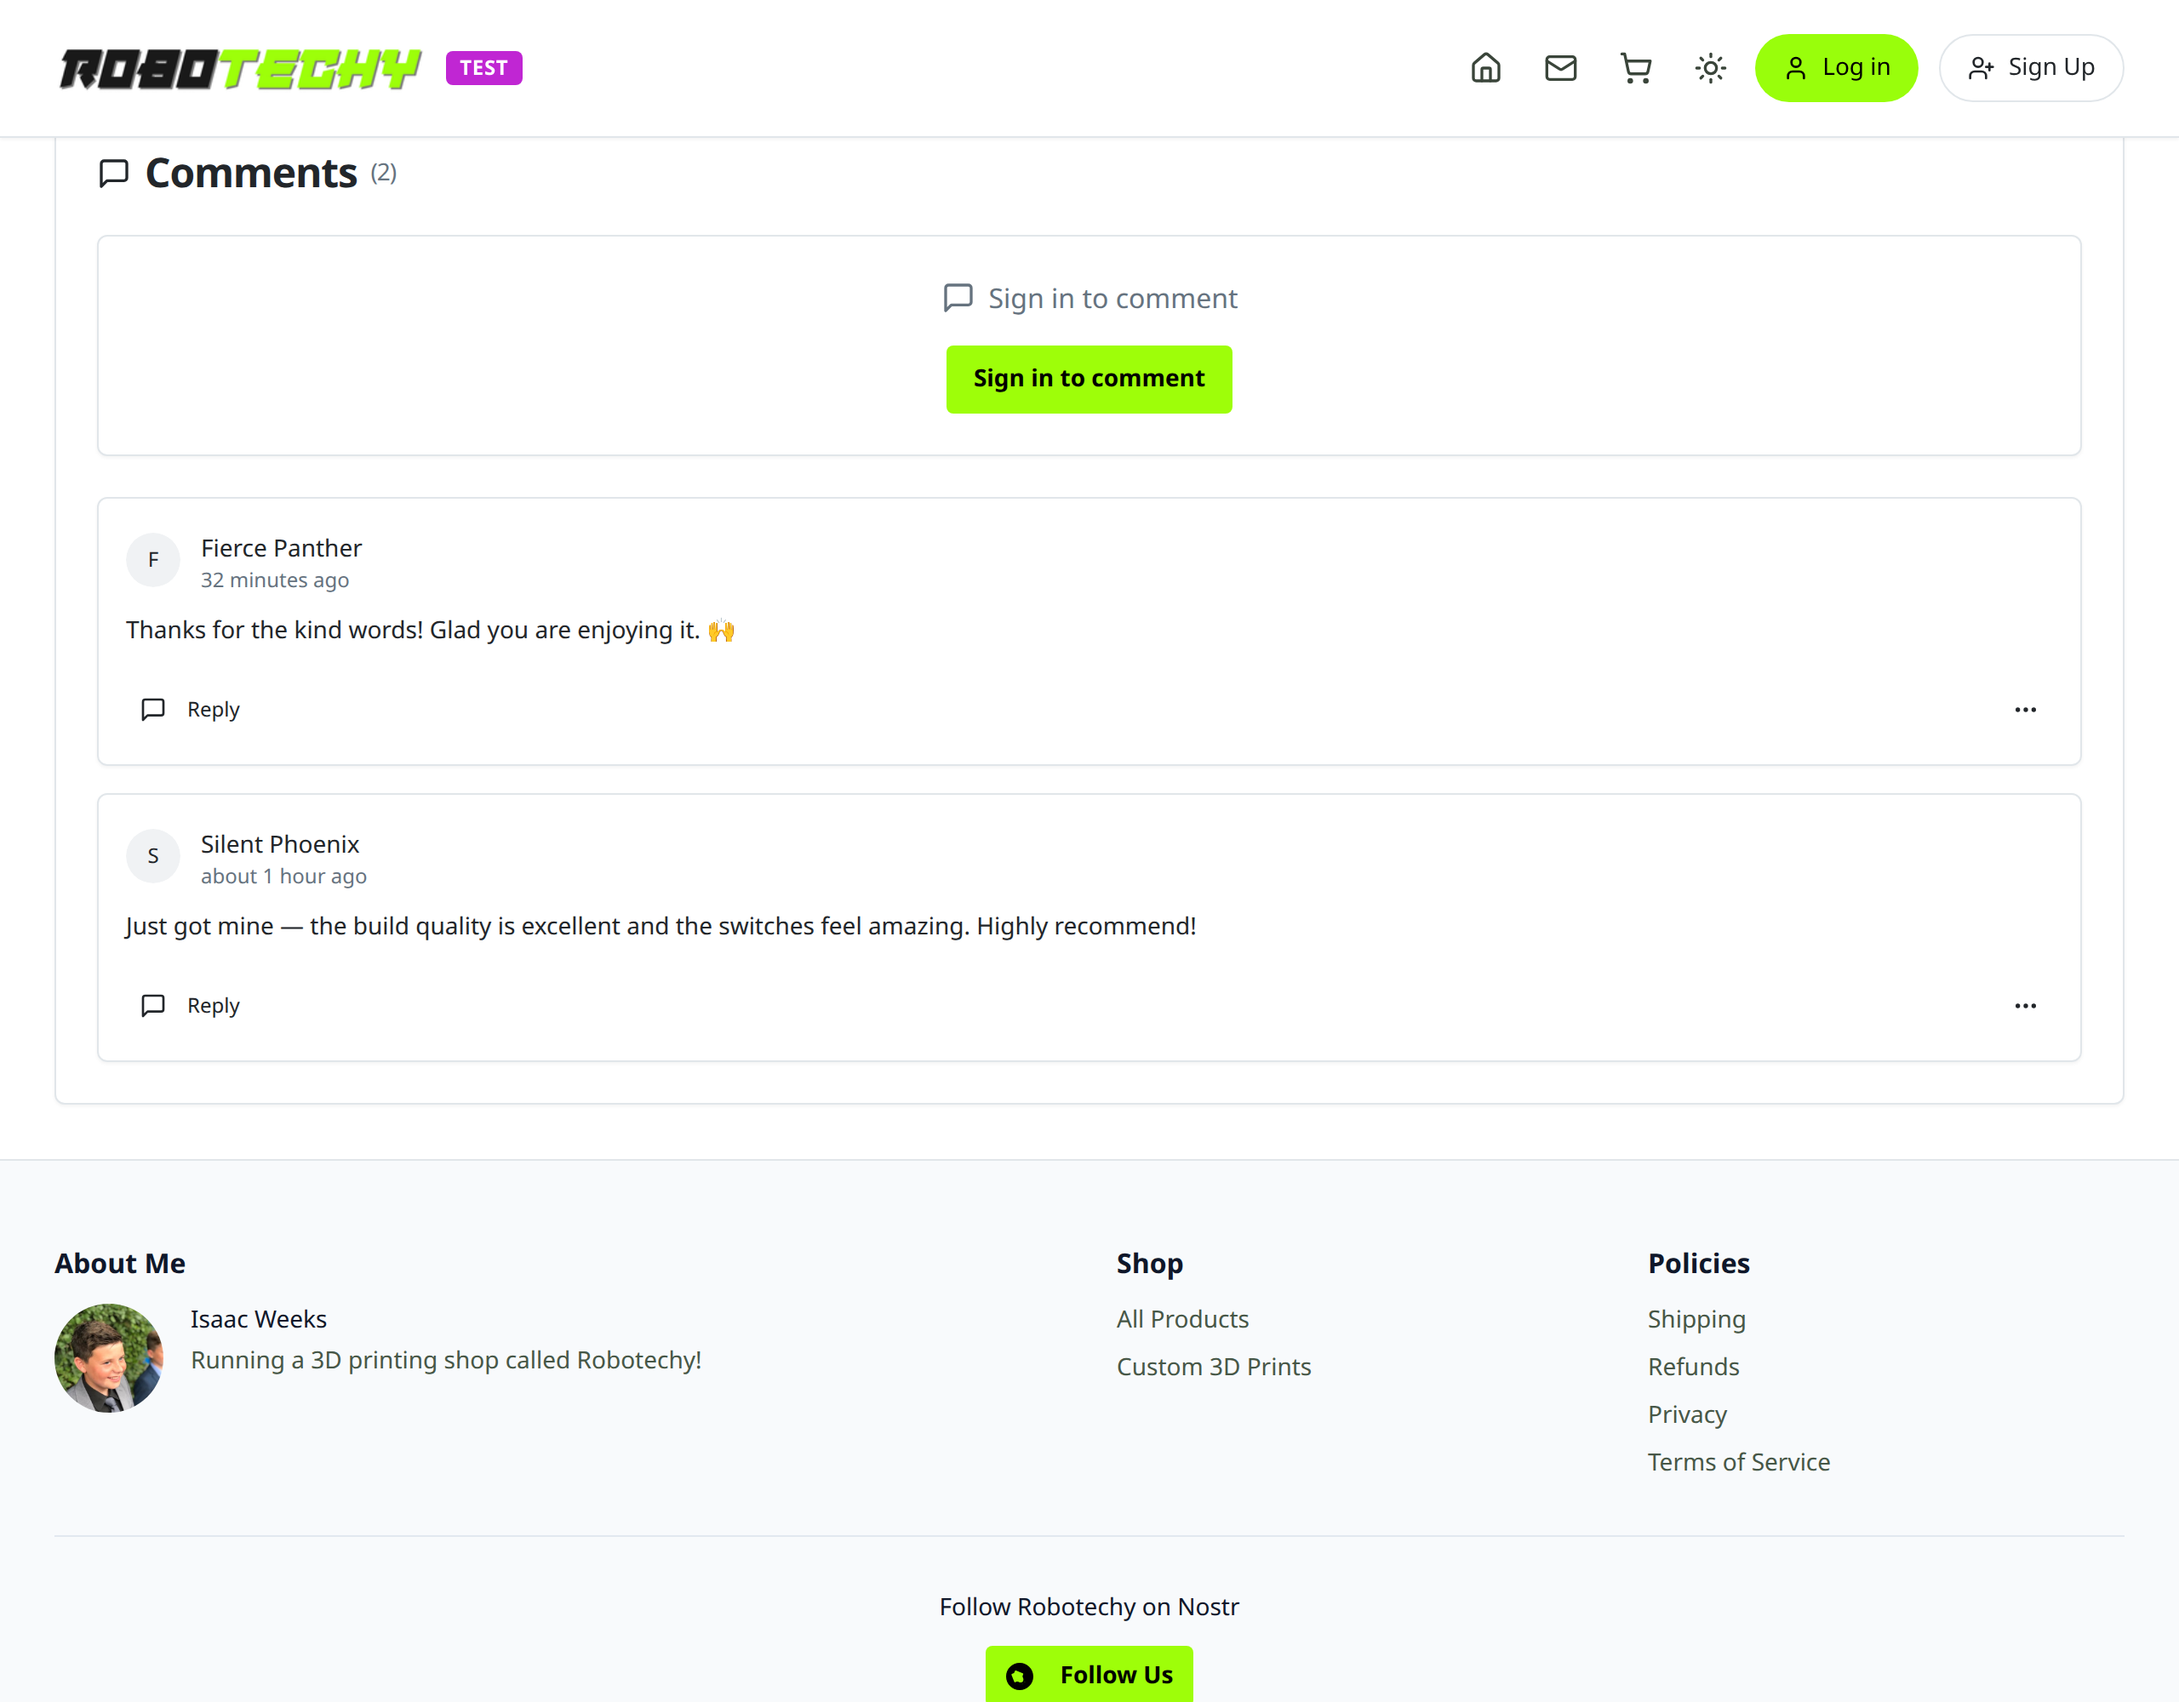
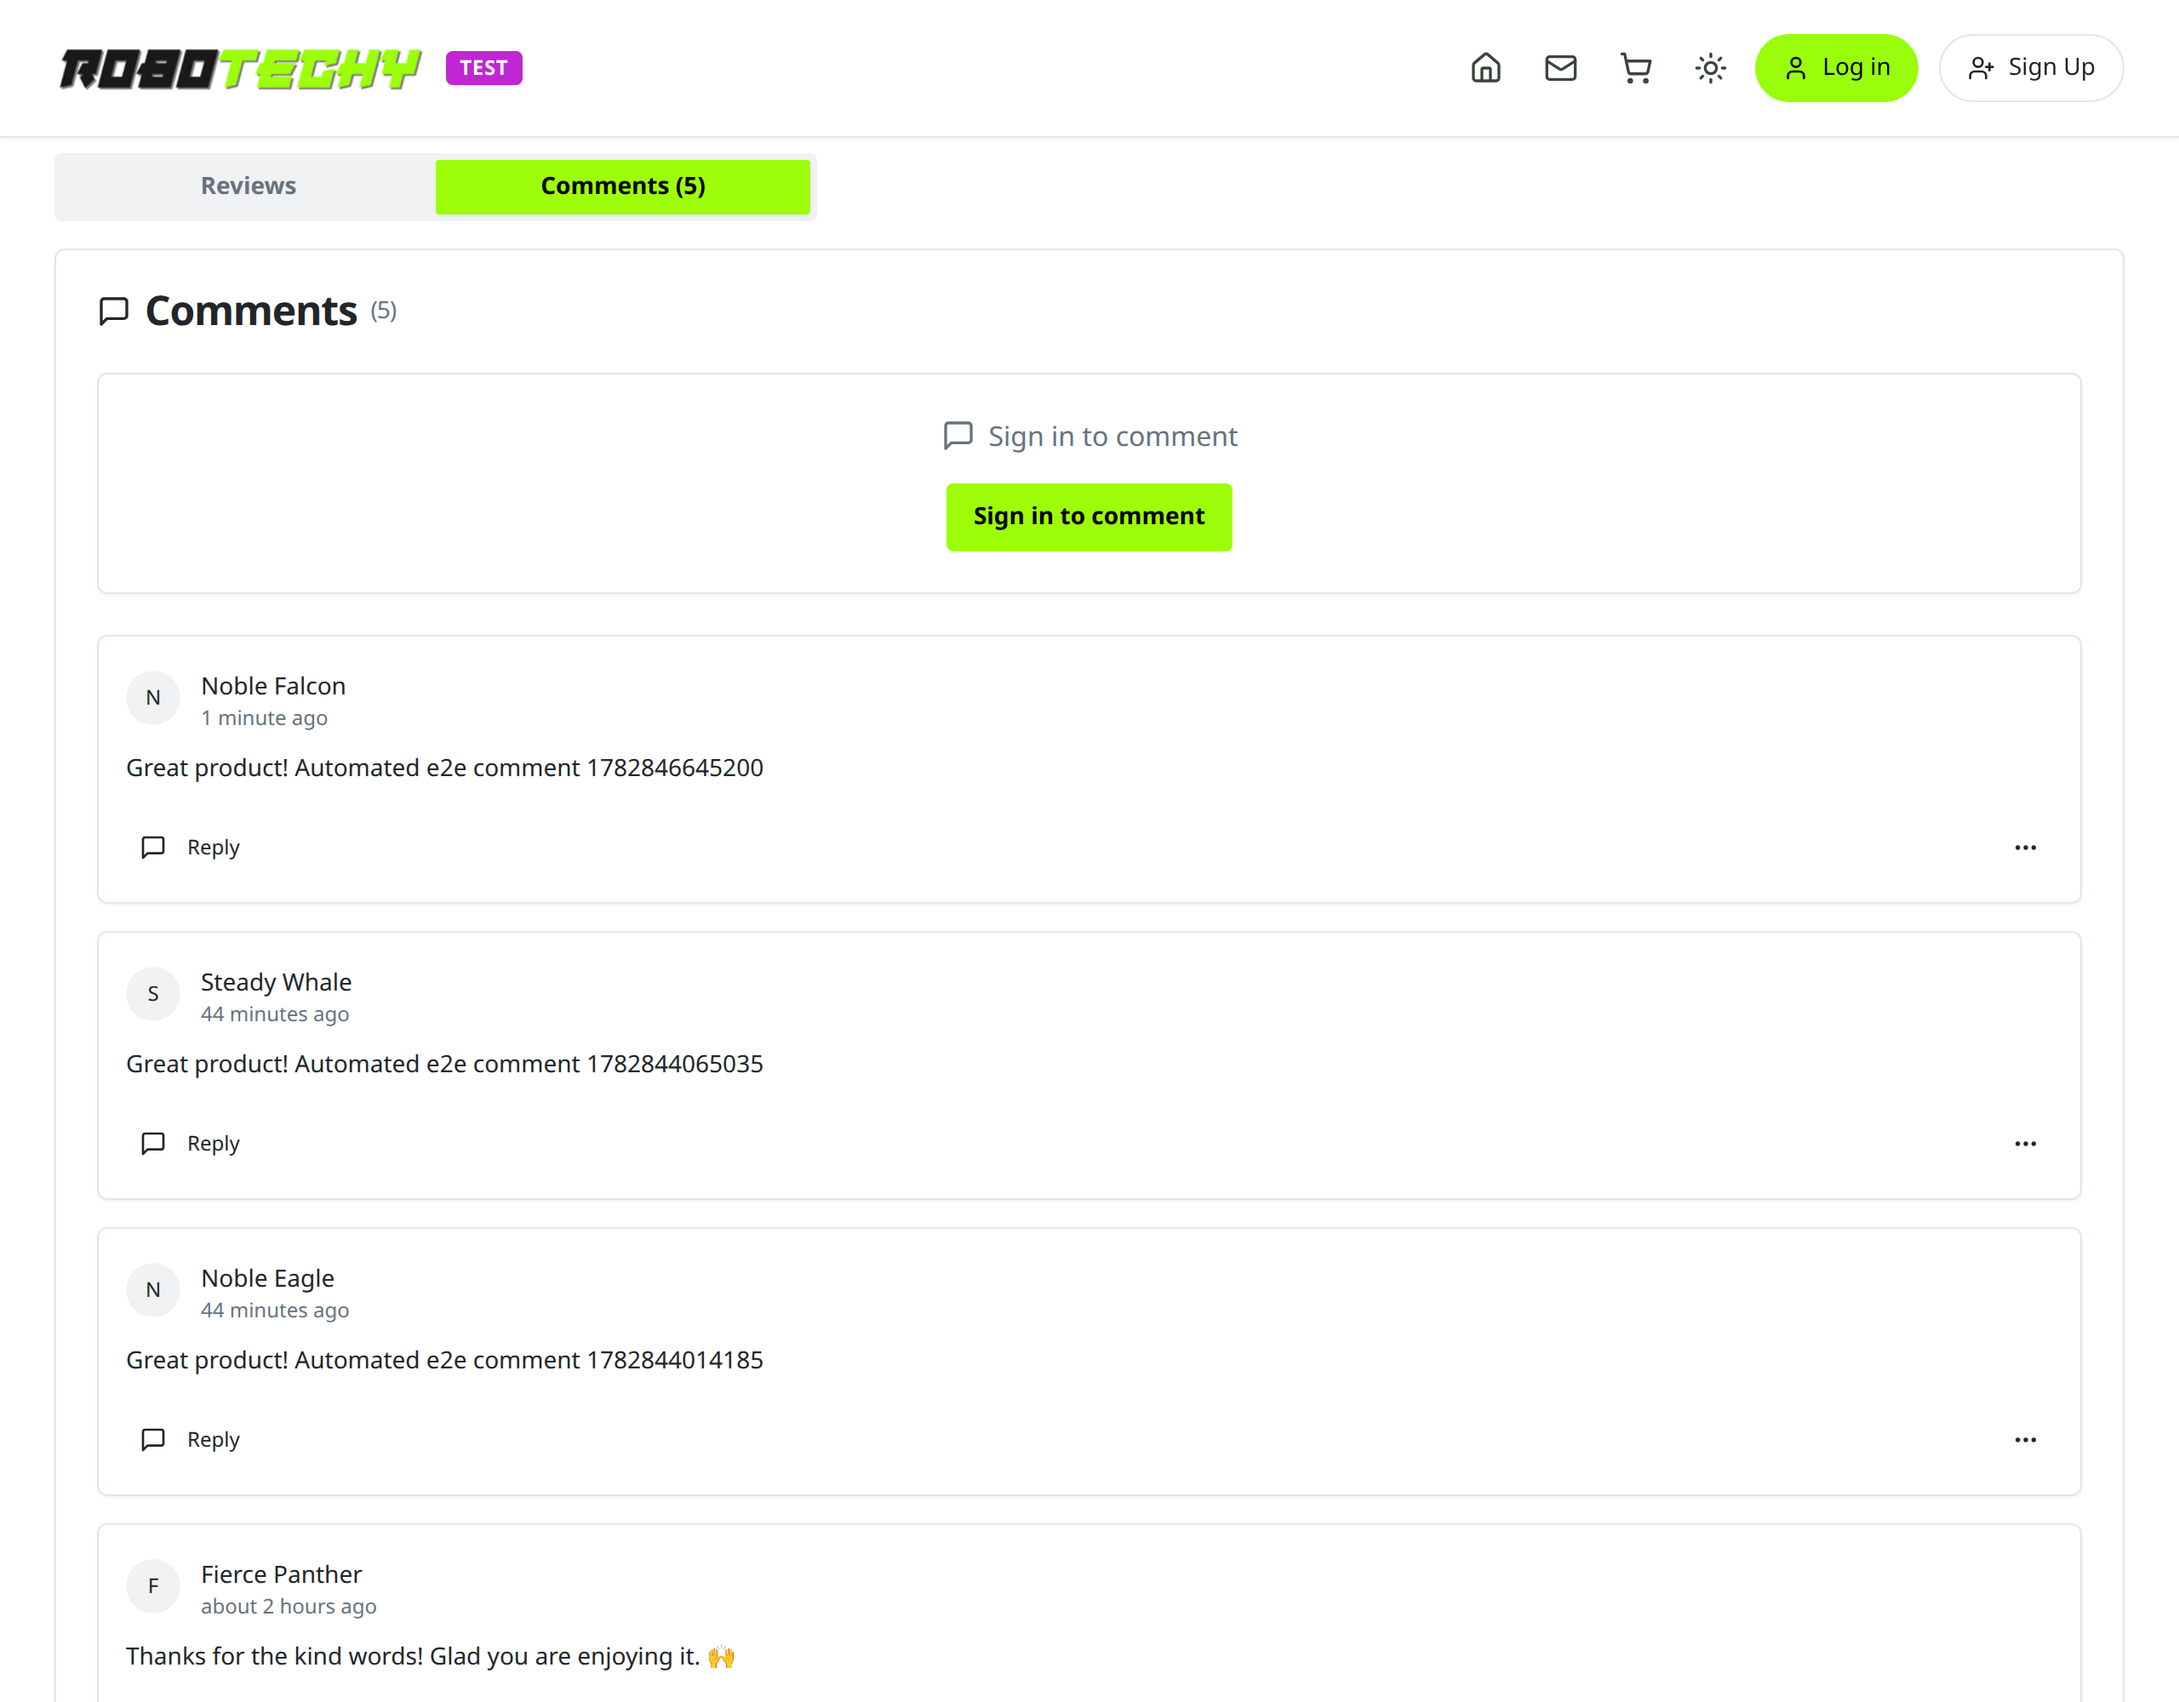
feat: show product reviews and comments as tabs
Replace the two stacked sections on the product detail page with a tabbed
ProductFeedbackTabs (Reviews default / Comments), using the shadcn Tabs
primitive. Tab labels carry a live count sourced from the same review/comment
hooks the sections use (React Query dedupes the queries, so no extra network).
Brand-styled (robotechy-green active tab) and mobile-responsive (full-width
two-column tablist, no overflow). Both sections keep all their behaviour
(signed-out prompts, posting, etc.).

Update e2e/product-comments.mjs to switch to the Comments tab before asserting
the comments UI (re-ran green), and refresh docs/screenshots/2 to evidence the
tabbed UI on both tabs (desktop + mobile + signed-out LoginDialog).

Claude-Session: https://claude.ai/code/session_01Y6Z2rpoHvJeiXw5beozBUa

diff --git a/src/components/ProductFeedbackTabs.tsx b/src/components/ProductFeedbackTabs.tsx
@@ -1,0 +1,62 @@
+import { Tabs, TabsList, TabsTrigger, TabsContent } from '@/components/ui/tabs';
+import { ReviewsSection } from '@/components/reviews/ReviewsSection';
+import { CommentsSection } from '@/components/comments/CommentsSection';
+import { useProductReviews } from '@/hooks/useProductReviews';
+import { useComments } from '@/hooks/useComments';
+import { commentRootRef } from '@/lib/productComments';
+import { cn } from '@/lib/utils';
+import type { NostrEvent } from '@nostrify/nostrify';
+
+interface ProductFeedbackTabsProps {
+  /** The kind-30402 product event the comments are rooted on. */
+  event: NostrEvent;
+  /** Product review coordinate: `a:30402:<merchantPubkey>:<productDTag>`. */
+  coord: string;
+  className?: string;
+}
+
+/**
+ * Reviews + Comments shown as two tabs on the product detail page (defaults to
+ * Reviews). Tab labels carry a live count sourced from the same hooks the
+ * sections use — React Query dedupes by query key, so mounting them here costs
+ * no extra network. Each section keeps all its own behaviour (signed-out
+ * prompts, posting, etc.).
+ */
+export function ProductFeedbackTabs({ event, coord, className }: ProductFeedbackTabsProps) {
+  const { data: reviewsData } = useProductReviews(coord);
+  const { data: commentsData } = useComments(event);
+
+  const reviewCount = reviewsData?.aggregate.count ?? 0;
+  const commentCount = commentsData?.topLevelComments.length ?? 0;
+
+  const triggerClass =
+    'data-[state=active]:bg-robotechy-green data-[state=active]:text-black data-[state=active]:shadow-sm font-semibold';
+
+  return (
+    <Tabs defaultValue="reviews" className={cn('w-full', className)}>
+      <TabsList className="grid w-full max-w-md grid-cols-2">
+        <TabsTrigger value="reviews" className={triggerClass}>
+          Reviews{reviewCount > 0 ? ` (${reviewCount})` : ''}
+        </TabsTrigger>
+        <TabsTrigger value="comments" className={triggerClass}>
+          Comments{commentCount > 0 ? ` (${commentCount})` : ''}
+        </TabsTrigger>
+      </TabsList>
+
+      <TabsContent value="reviews" className="mt-4">
+        <ReviewsSection coord={coord} />
+      </TabsContent>
+
+      <TabsContent value="comments" className="mt-4">
+        {/* key remounts the section per product so prior input never leaks.
+            Keyed by the stable product coordinate (not event.id, which changes
+            on listing edits) so harmless refetches don't remount. */}
+        <CommentsSection
+          key={commentRootRef(event)}
+          root={event}
+          emptyStateSubtitle="Be the first to start the discussion!"
+        />
+      </TabsContent>
+    </Tabs>
+  );
+}

diff --git a/src/pages/ProductDetail.tsx b/src/pages/ProductDetail.tsx
@@ -11,10 +11,8 @@ import { Header } from '@/components/Header';
 import { Footer } from '@/components/Footer';
 import { CartDrawer } from '@/components/cart/CartDrawer';
 import { CheckoutDialog } from '@/components/checkout/CheckoutDialog';
-import { ReviewsSection } from '@/components/reviews/ReviewsSection';
+import { ProductFeedbackTabs } from '@/components/ProductFeedbackTabs';
 import { productReviewCoord } from '@/lib/productReviews';
-import { CommentsSection } from '@/components/comments/CommentsSection';
-import { commentRootRef } from '@/lib/productComments';
 import { Button } from '@/components/ui/button';
 import { Card, CardContent } from '@/components/ui/card';
 import { Skeleton } from '@/components/ui/skeleton';
@@ -340,23 +338,13 @@ export function ProductDetail({ identifier }: ProductDetailProps) {
           </div>
         </div>
 
-        {/* Product Reviews */}
+        {/* Product Reviews + Comments as tabs (Reviews default; Comments are
+            NIP-22 kind 1111 rooted on the kind-30402 product). */}
         {event && (
           <div className="mt-12">
-            <ReviewsSection coord={productReviewCoord(event.pubkey, product.id)} />
-          </div>
-        )}
-
-        {/* Product Comments (NIP-22 kind 1111, rooted on the kind-30402 product) */}
-        {event && (
-          <div className="mt-8">
-            {/* key remounts the section per product so prior input never leaks.
-                Keyed by the stable product coordinate (not event.id, which
-                changes on listing edits) so harmless refetches don't remount. */}
-            <CommentsSection
-              key={commentRootRef(event)}
-              root={event}
-              emptyStateSubtitle="Be the first to start the discussion!"
+            <ProductFeedbackTabs
+              event={event}
+              coord={productReviewCoord(event.pubkey, product.id)}
             />
           </div>
         )}

diff --git a/e2e/README.md b/e2e/README.md
@@ -131,11 +131,12 @@ NSEC=nsec1… SHOT_DIR=docs/screenshots/NN node e2e/product-reviews.mjs
 
 ### `product-comments.mjs`
 
-Drives the NIP-22 kind-1111 product comments. Signed out, it opens the first
-product, scrolls to the Comments section and asserts it's read-only — the "Sign
-in to comment" action opens the LoginDialog. Signed in (with `NSEC`, injected
-straight into `localStorage` in the `@nostrify` format), it types a comment,
-posts it, and asserts the published kind-1111 comment renders in the list.
+Drives the NIP-22 kind-1111 product comments. Reviews and Comments are shown as
+tabs (Reviews is the default), so the script switches to the Comments tab first.
+Signed out, it asserts the section is read-only — the "Sign in to comment"
+action opens the LoginDialog. Signed in (with `NSEC`, injected straight into
+`localStorage` in the `@nostrify` format), it types a comment, posts it, and
+asserts the published kind-1111 comment renders in the list.
 
 ```bash
 # signed-out phase only
